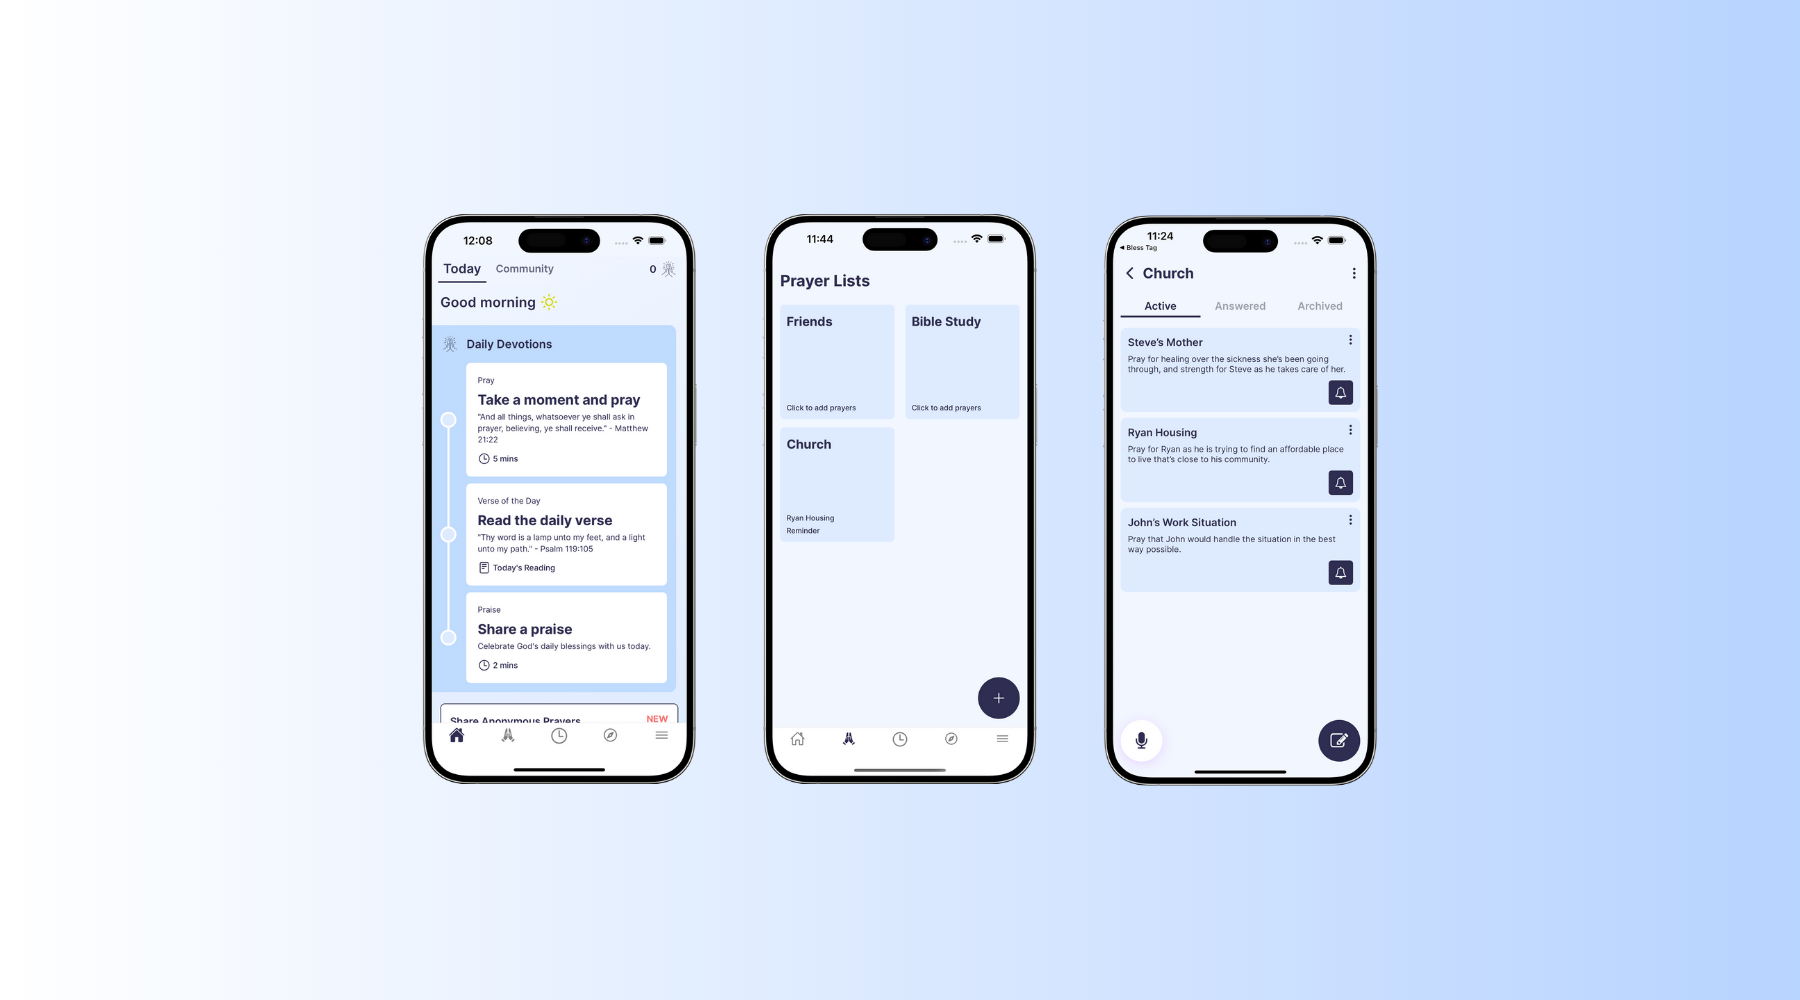
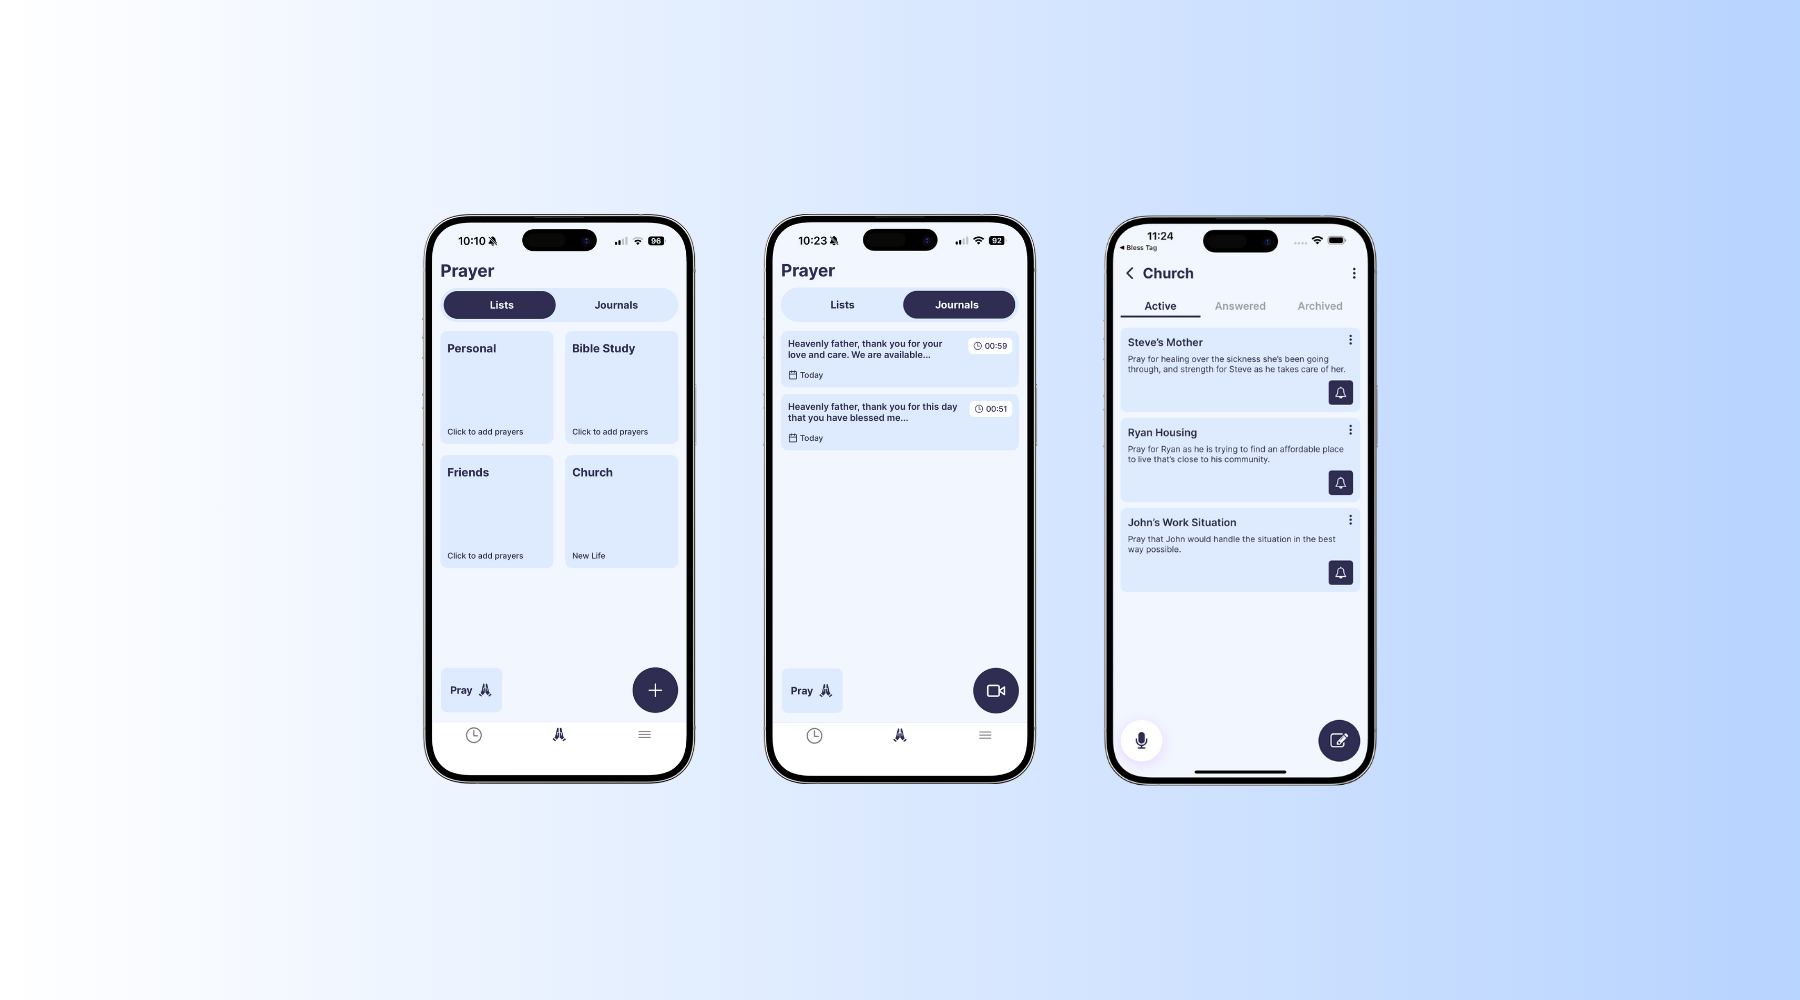
Update images

diff --git a/components/features.tsx b/components/features.tsx
@@ -50,10 +50,16 @@ const Features = () => {
         imageUrl="/prayer-room.png"
       />
       <Section
+        title="Journal your prayers"
+        description="Record your prayers, and thoughts for further reflection and connection with God."
+        imageUrl="/mockup-journal.png"
+        className="md:flex-row-reverse md:text-left text-center container-standard bg-blue-50 text-primary"
+      />
+      <Section
         title="Read the Daily Verse"
         description="Start your day inspired by Scripture. Discover a handpicked Bible verse each day to uplift and encourage your faith journey."
         imageUrl="/verse.png"
-        className="md:flex-row-reverse md:text-left text-center container-standard bg-blue-50 text-primary"
+        className={"text-primary md:text-left text-center container-standard"}
       />
     </div>
   );

diff --git a/app/support/page.tsx b/app/support/page.tsx
@@ -163,14 +163,19 @@ const SupportPage = () => {
           </Link>
         </section>
         <div ref={fundsRef}>
-          <h2 className="text-4xl font-semibold">
+          <h2
+            className={cn(
+              merriweather.className,
+              "md:text-3xl text-2xl italic text-primary font-semibold mb-3"
+            )}
+          >
             How will the funds be used?
           </h2>
-          <h3 className="text-lg">
+          <h3 className="text-lg font-medium mb-2">
             The funds received through your contributions will be used to
             support the following:
           </h3>
-          <ul className="">
+          <ul className="space-y-2 mb-2">
             <li>- Development and maintenance of our app.</li>
             <li>- Apple fees to keep Prayse on the App Store.</li>
             <li>

diff --git a/components/hero.tsx b/components/hero.tsx
@@ -66,7 +66,7 @@ const Hero = () => {
   return (
     <section
       ref={heroRef}
-      className="py-24 flex md:flex-row flex-col gap-10 items-center w-full"
+      className="pt-32  flex md:flex-row flex-col gap-10 items-center w-full"
     >
       <div className="bg-blue-50 md:flex-row flex-col w-full min-h-full md:p-10 py-10 px-5 flex items-center justify-center gap-10 rounded-2xl">
         <div
@@ -149,7 +149,7 @@ const Hero = () => {
           className="flex items-center h-full justify-center flex-1"
         >
           <Image
-            src={"/mockup.png"}
+            src={"/mockup-home.png"}
             alt="Prayse home screen"
             className="md:w-[300px] w-3/4 md:flex shadow-xl shadow-gray-200 rounded-2xl"
             width={1179}
